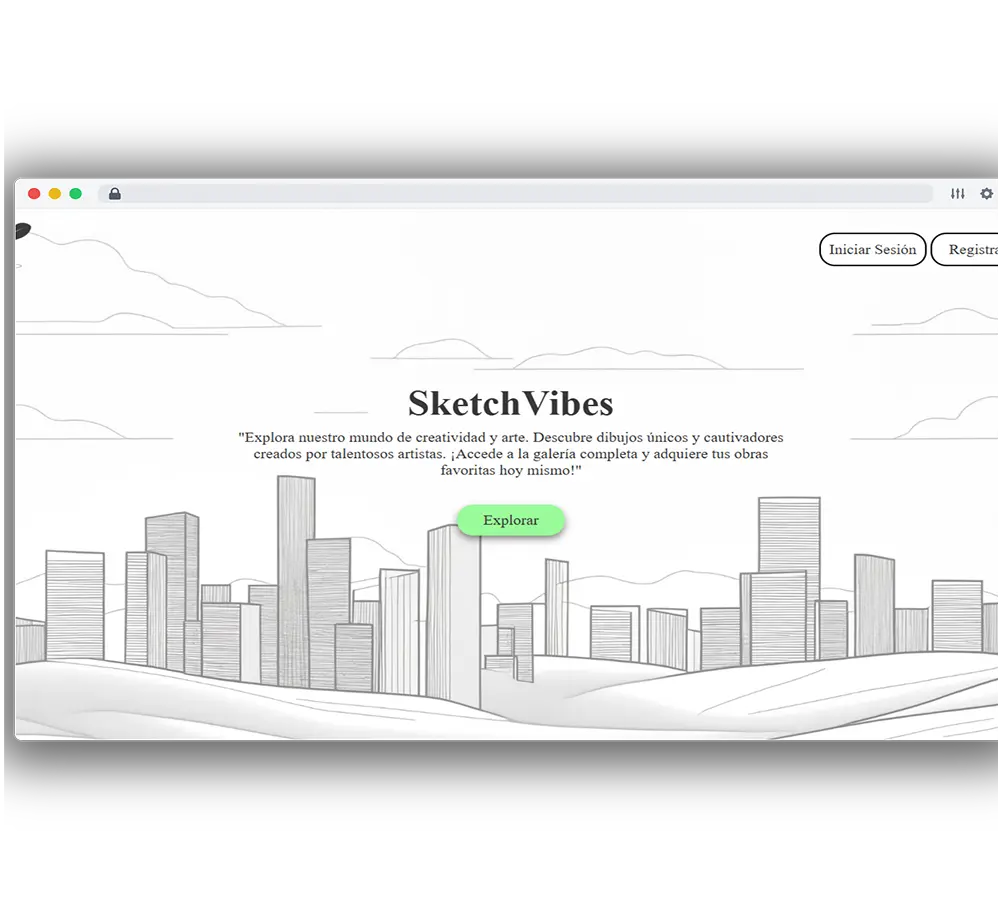
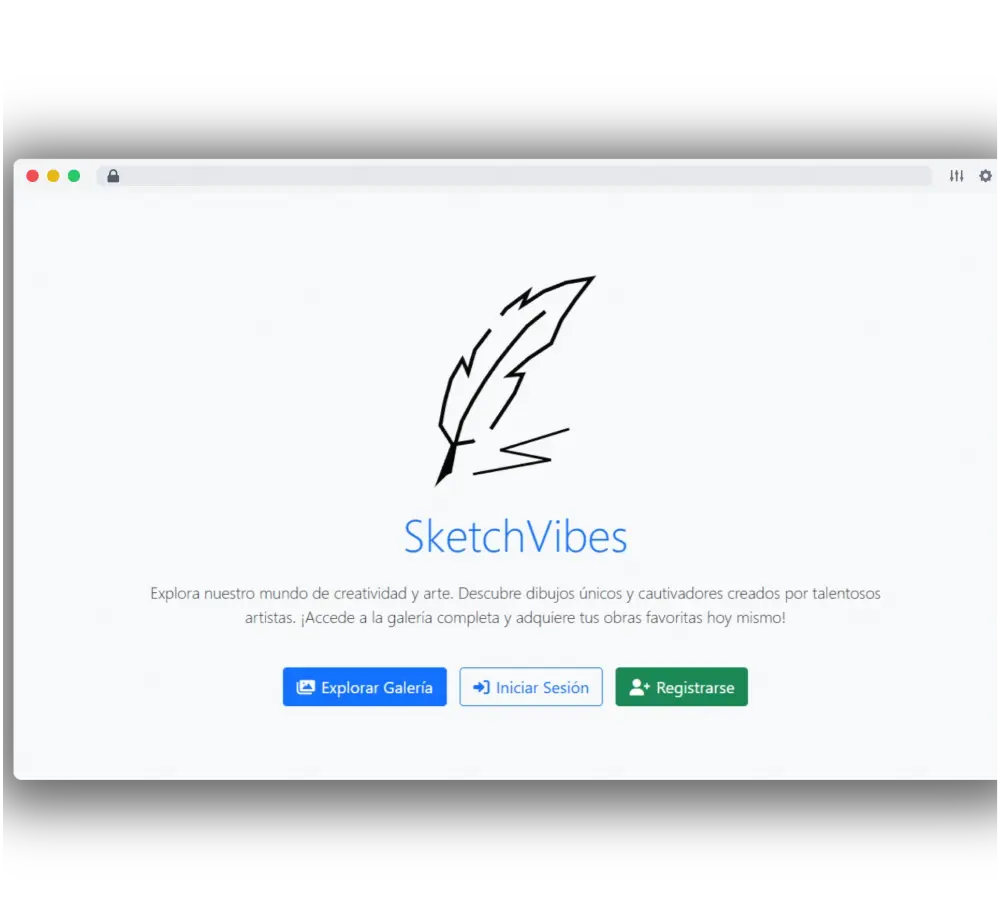
Update project details for SketchVibes; add Bootstrap to technologies and correct site URL.

diff --git a/src/App.jsx b/src/App.jsx
@@ -79,9 +79,9 @@ function App() {
       image: Work5,
       name: 'SketchVibes',
       description: t('projectDescriptions.sketchVibes'),
-      technologies: ['PHP', 'MySql'],
+      technologies: ['PHP', 'MySql', 'bootstrap'],
       githubUrl: 'https://github.com/JimmyPiedrahita/SketchVibes',
-      siteUrl: 'https://practicas.me/',
+      siteUrl: 'https://practicas.me/SketchVibes/public/index.php',
       category: 'web',
     },
     {
